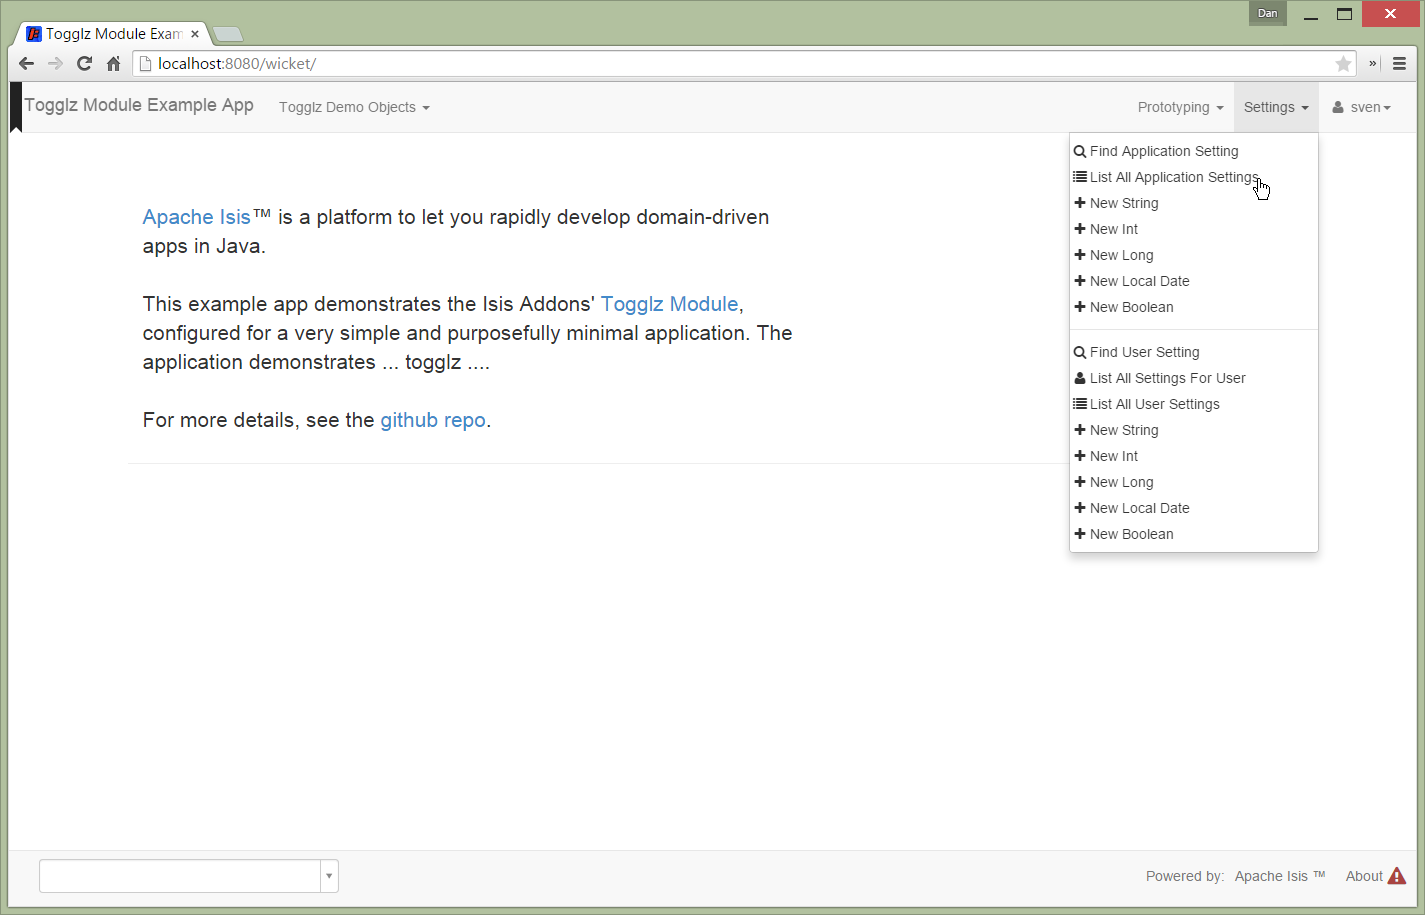
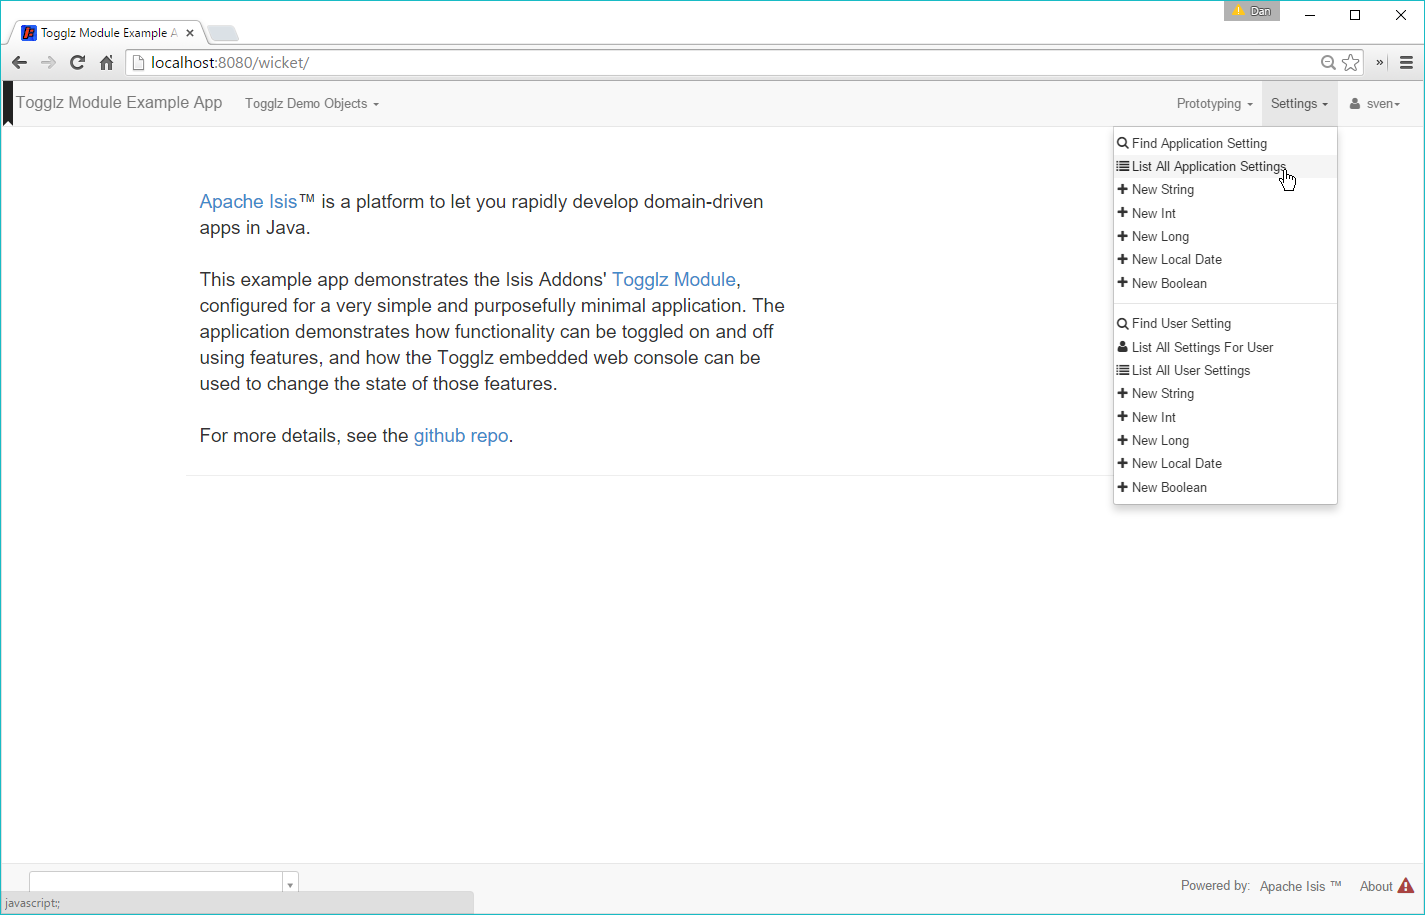
Activate default profiles using the !skip.xxx property idiom; updates to screenshots; update to README; fix to demo webapp's welcome.html

Changed region(s): [[0.0, 0.0, 1.0, 1.0], [0.0926, 0.2142, 0.5558, 0.4896]]

diff --git a/webapp/src/main/resources/org/isisaddons/module/togglz/webapp/welcome.html b/webapp/src/main/resources/org/isisaddons/module/togglz/webapp/welcome.html
@@ -20,7 +20,7 @@
     <br/>
     <br/>
     This example app demonstrates the Isis Addons' <a href="https://github.com/isisaddons/isis-module-togglz" target="_blank">Togglz Module</a>,
-    configured for a very simple and purposefully minimal application.  The application demonstrates how to functionality can be toggled on and off
+    configured for a very simple and purposefully minimal application.  The application demonstrates how functionality can be toggled on and off
     using features, and how the Togglz embedded web console can be used to change the state of those features.
     <br/>
     <br/>

diff --git a/integtests/src/test/java/org/isisaddons/module/togglz/integtests/TogglzModuleSystemInitializer.java b/integtests/src/test/java/org/isisaddons/module/togglz/integtests/TogglzModuleSystemInitializer.java
@@ -46,7 +46,7 @@ public class TogglzModuleSystemInitializer {
             with(new DataNucleusPersistenceMechanismInstaller());
 
             // services annotated with @DomainService
-            withServicesIn( "org.isisaddons.module.togglz" );
+            withServicesIn( "org.isisaddons.module.togglz", "org.isisaddons.module.settings" );
         }
 
         private static IsisConfiguration testConfiguration() {

diff --git a/README.md b/README.md
@@ -24,7 +24,7 @@ In the demo app the "Togglz Demo Objects" service has three actions, all of whic
 
 #### Togglz Console ####
 
-Users with the appropriate role ("isis-module-togglz-admin" can access the Togglz console, which lists all features:
+Users with the appropriate role (`isis-module-togglz-admin`) can access the Togglz console, which lists all features:
 
 ![](https://raw.github.com/isisaddons/isis-module-togglz/master/images/030-togglz-console-list-all.png)
 
